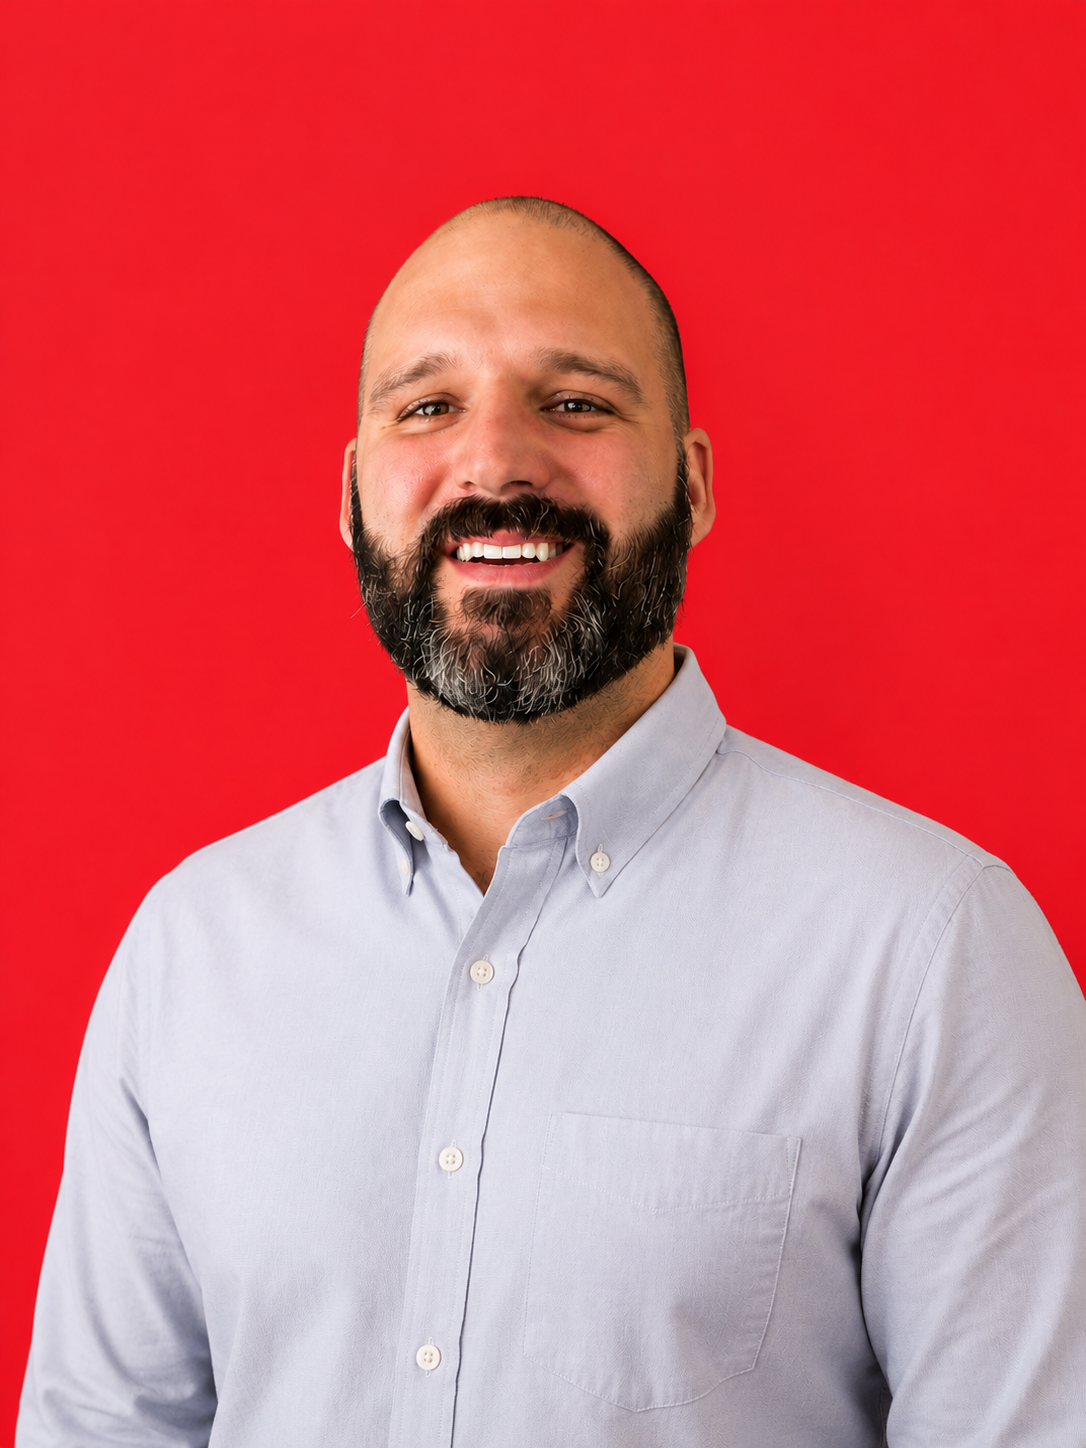
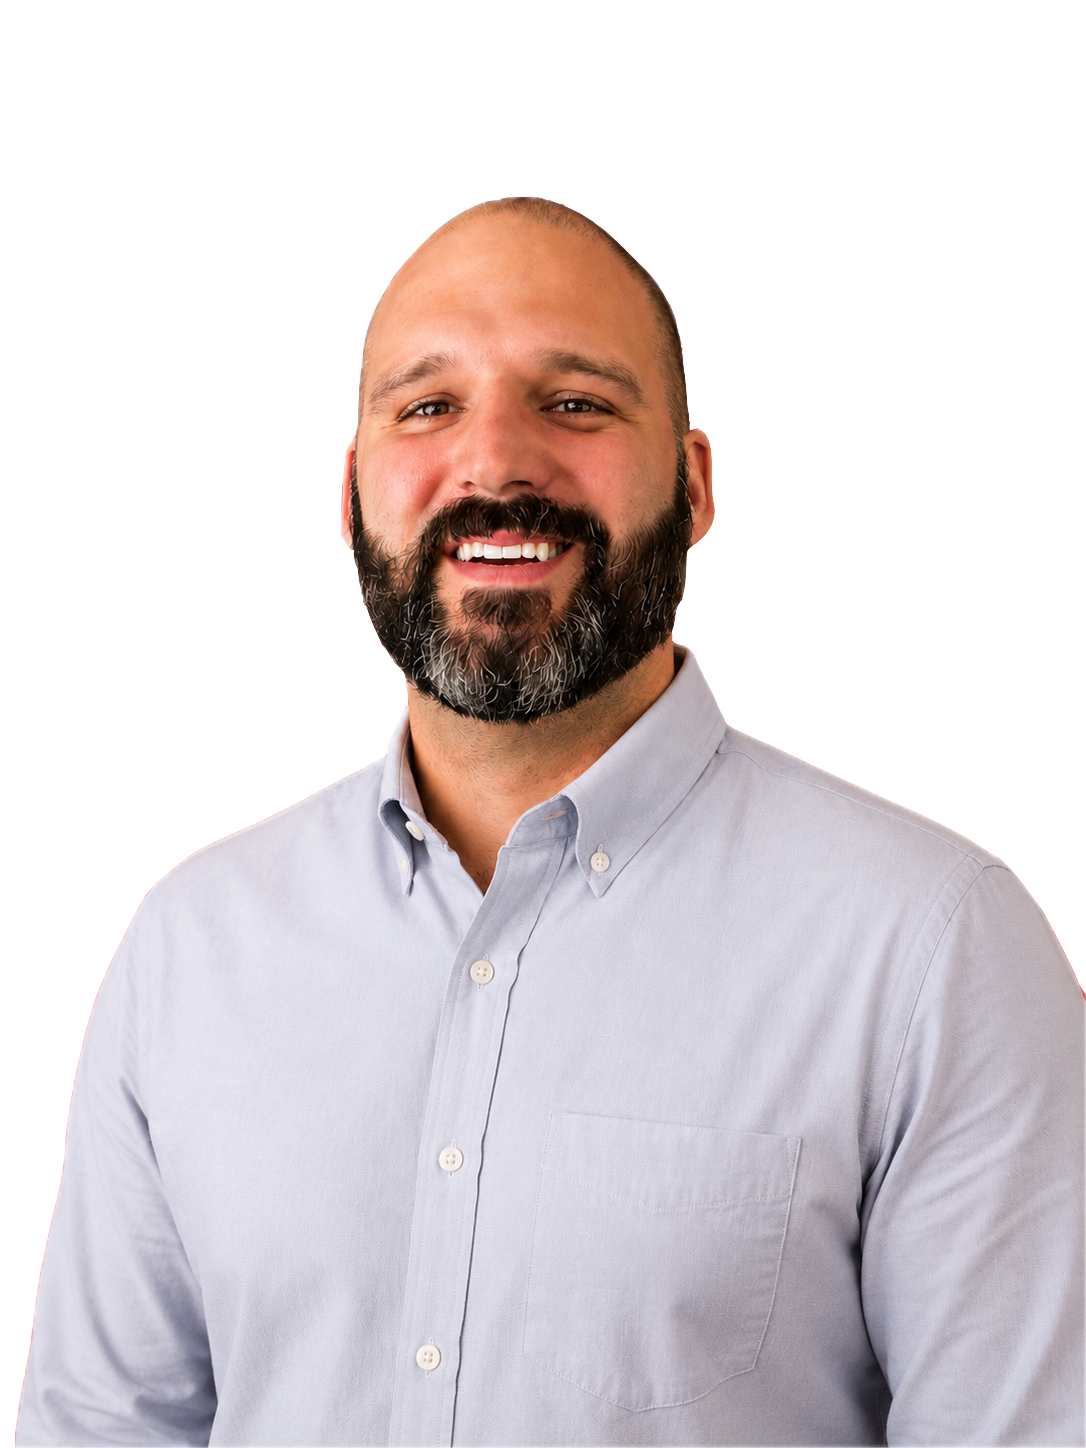
finishing touches.

diff --git a/app/assets/stylesheets/home.css b/app/assets/stylesheets/home.css
@@ -95,6 +95,11 @@ article {
     content: " \2197";
 }
 
+.underline {
+    text-decoration: underline;
+    font-weight: 600;
+}
+
 @media (min-width: 768px) {
     .intro {
         display: flex;

diff --git a/app/assets/stylesheets/application.css b/app/assets/stylesheets/application.css
@@ -154,7 +154,7 @@ header {
     left: 0;
     right: 0;
     flex-direction: column;
-    gap: 0.35rem;
+    gap: 0.45rem;
     padding: 1rem;
     z-index: 50;
     background-color: var(--base-100);